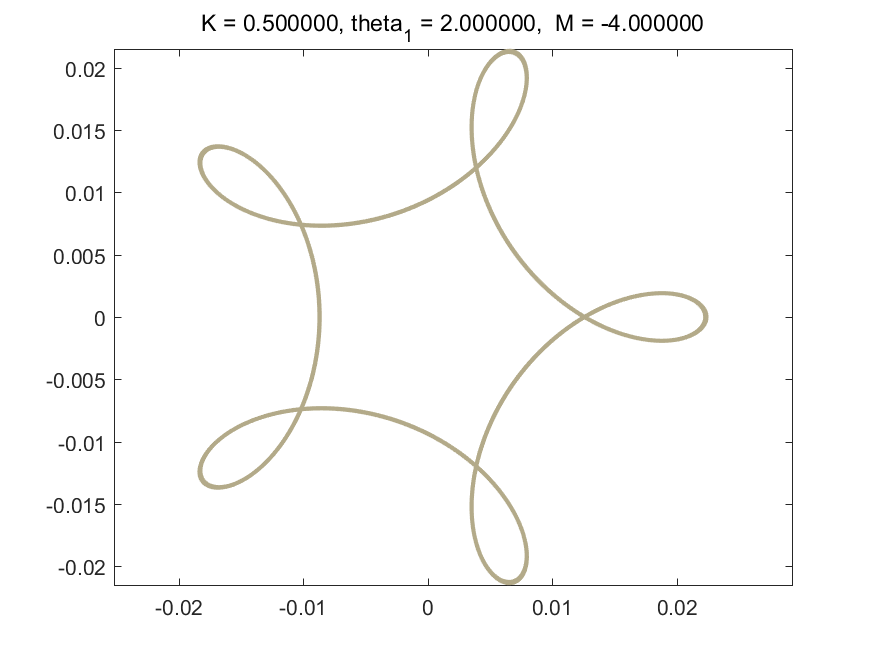
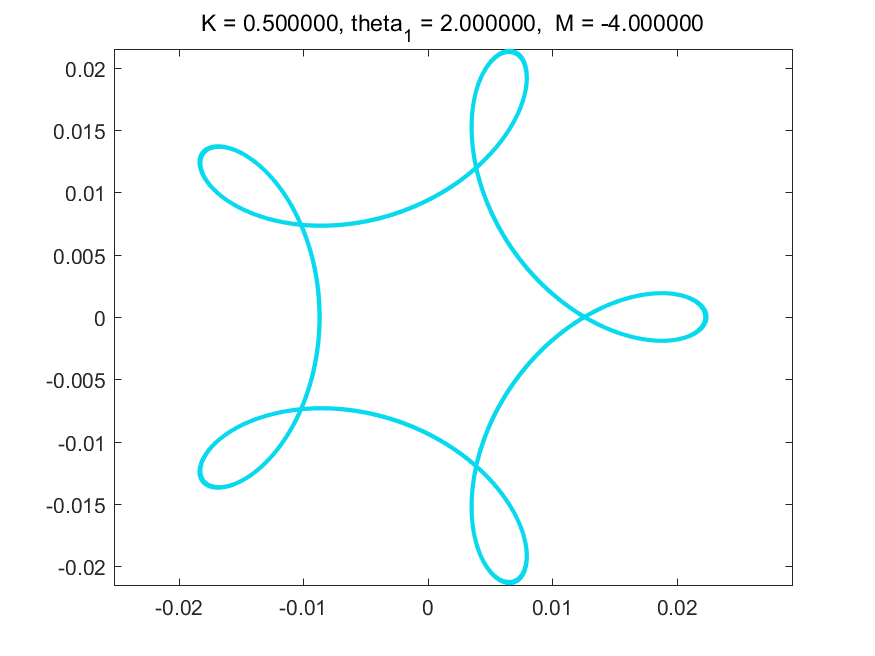
add more patterns

diff --git a/risley_prisms_demo6.m b/risley_prisms_demo6.m
@@ -1,0 +1,22 @@
+close all;
+theta1 = 2.0 * pi / 180;
+KK = [0.2, 0.5, 1.0, 1.2, 2.5, 5, 10, 15, 20, 30];
+M = -100;
+delta_alpha = 0;
+
+
+for i = 1 : length(KK)
+    K = KK(i);
+   fig = figure;
+   [x, y] = risley_prisms(theta1, K, M, delta_alpha); 
+   plot(x, y, 'color', rand(1, 3));
+    hold off;
+    axis equal;
+    stitle = sprintf('K = %f, theta_1 = %f,  M = %f', K, theta1 * 180 / pi,  M);
+    title(stitle)
+    
+    filename = sprintf('K = %f, theta_1 = %f, M = %f.png', K, theta1 * 180 / pi, M);
+    saveas(fig, filename)
+end
+
+

diff --git a/risley_prisms.m b/risley_prisms.m
@@ -12,7 +12,7 @@ n = 0.6;
 w1 = 1.5;
 w2 = M * w1;
 
-t = 0 : 0.1 : 1000;
+t = 0 : 0.1 : 30;
 N = length(t);
 alpha1 = w1 * t + alpha1_init;
 alpha2 = w2 * t + alpha2_init;
